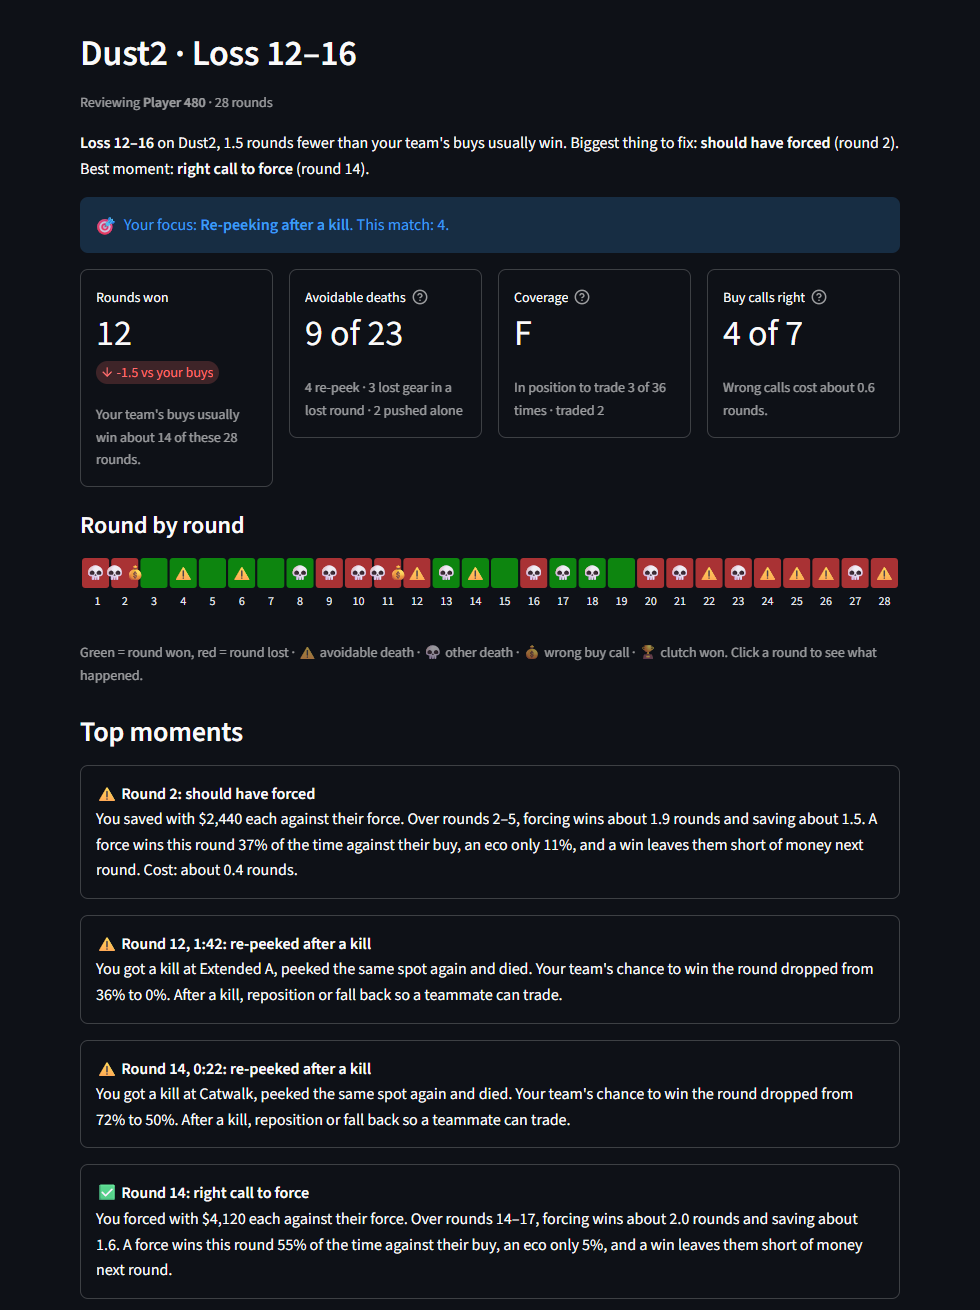
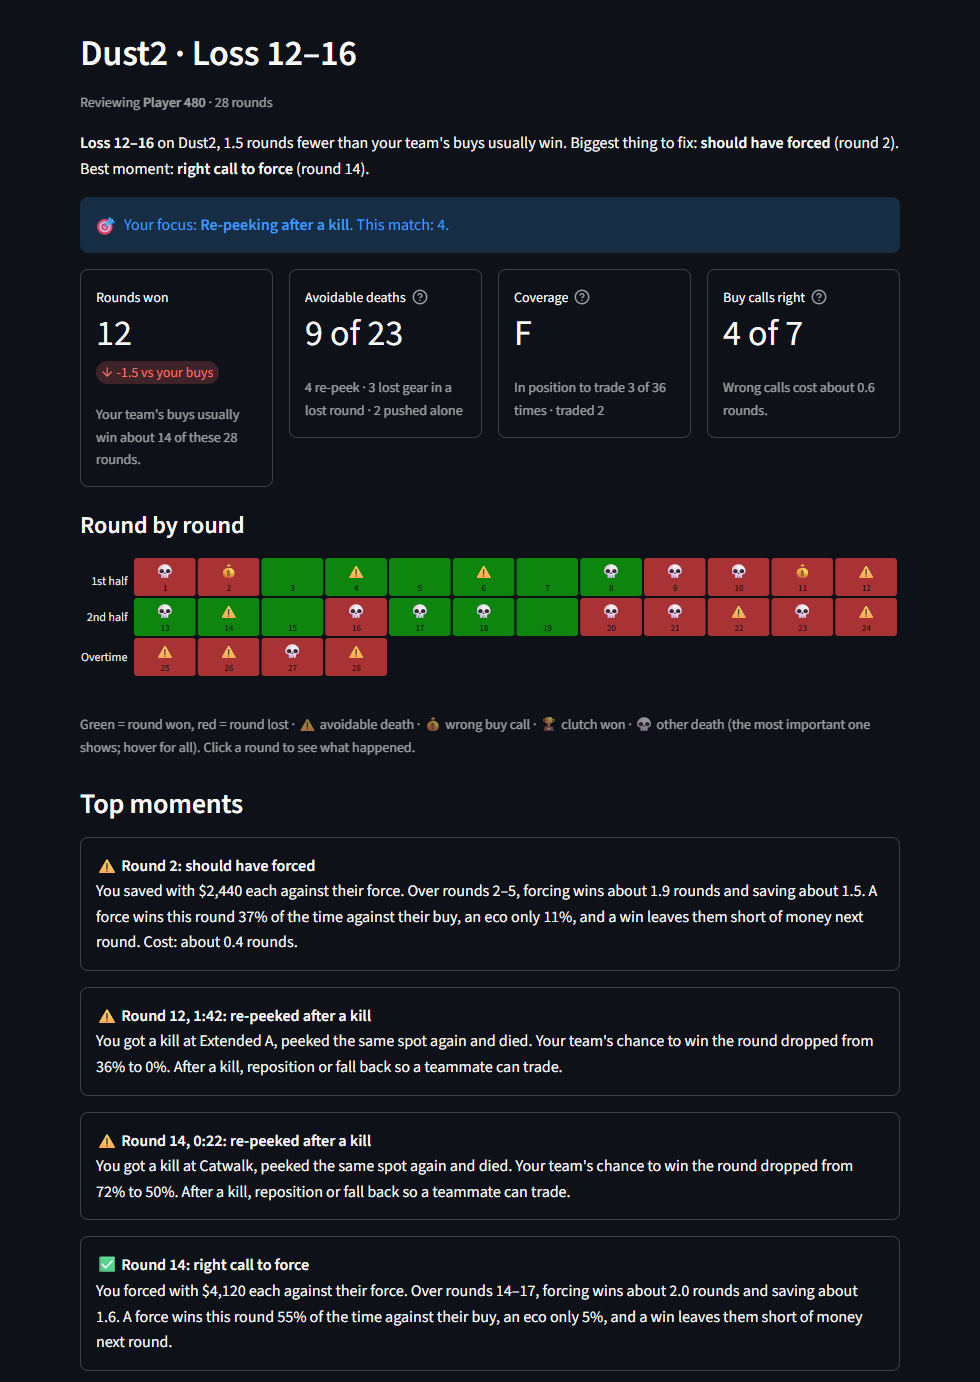
Make the report work on phones
Checked at iPhone width: no sideways scrolling and cards stack. The
round timeline overflowed with 28 rounds, so it now has one row per half
(12 tiles each, overtime below) with the round number in each tile and
one icon per tile (avoidable death > wrong buy > clutch won > death);
the tooltip lists everything. README and screenshots updated.

Changed region(s): [[0.0612, 0.0305, 0.9184, 0.9771]]

diff --git a/app.py b/app.py
@@ -256,6 +256,9 @@ def render_report(report: Report, past: pd.DataFrame | None = None, current: dic
     )
 
 
+TIMELINE_PRIORITY = ["⚠", "💰", "🏆", "💀"]
+
+
 def timeline_data(report: Report) -> pd.DataFrame:
     """One row per round: result plus icons for what happened to you in it."""
     deaths = report.deaths
@@ -279,32 +282,42 @@ def timeline_data(report: Report) -> pd.DataFrame:
         if r.round in clutches_won:
             icons.append("🏆")
             notes.append("Won a clutch")
-        rows.append({"round": int(r.round), "result": "Won" if r.won else "Lost", "icons": "".join(icons),
+        # One icon per tile so they fit on a phone; the tooltip lists everything.
+        icon = min(icons, key=TIMELINE_PRIORITY.index) if icons else ""
+        rows.append({"round": int(r.round), "result": "Won" if r.won else "Lost", "icons": icon,
                      "notes": "; ".join(notes) or "Nothing to flag"})
     return pd.DataFrame(rows)
 
 
 def timeline_chart(data: pd.DataFrame, mode: str) -> alt.Chart:
+    """One row of tiles per half (12 rounds, then overtime) so tiles stay wide enough on a phone."""
     palette = COLORS[mode]
+    data = data.assign(
+        half=[("1st half" if r <= 12 else "2nd half" if r <= 24 else "Overtime") for r in data["round"]],
+        slot=[(r - 1) % 12 + 1 if r <= 24 else r - 24 for r in data["round"]],
+    )
+    halves = [h for h in ("1st half", "2nd half", "Overtime") if h in set(data["half"])]
     pick = alt.selection_point(name="pick", fields=["round"], on="click", empty=False)
-    x = alt.X("round:O", title=None, axis=alt.Axis(labelAngle=0, ticks=False, domain=False, labelPadding=6))
+    x = alt.X("slot:O", title=None, axis=None, scale=alt.Scale(domain=list(range(1, 13))))
+    y = alt.Y("half:N", title=None, sort=halves, axis=alt.Axis(ticks=False, domain=False, labelPadding=6))
     tiles = alt.Chart(data).mark_rect(stroke=palette["surface"], strokeWidth=2, cornerRadius=4, cursor="pointer").encode(
-        x=x,
+        x=x, y=y,
         color=alt.Color("result:N", title=None, scale=alt.Scale(domain=["Won", "Lost"], range=[palette["good"], palette["critical"]]),
                         legend=None),  # explained in the caption
         opacity=alt.condition(pick, alt.value(1.0), alt.value(0.8)),
         tooltip=[alt.Tooltip("round:O", title="Round"), alt.Tooltip("result:N", title="Result"), alt.Tooltip("notes:N", title="What happened")],
     ).add_params(pick)
-    icons = alt.Chart(data).mark_text(fontSize=15, baseline="middle").encode(x=x, text="icons:N")
-    return alt.layer(tiles, icons).properties(height=70)
+    icons = alt.Chart(data).mark_text(fontSize=14, baseline="middle", dy=-5).encode(x=x, y=y, text="icons:N")
+    numbers = alt.Chart(data).mark_text(fontSize=9, baseline="middle", dy=11, color=palette["on_fill"]).encode(x=x, y=y, text="round:O")
+    return alt.layer(tiles, icons, numbers).properties(height=alt.Step(40))
 
 
 def render_timeline(report: Report, mode: str) -> None:
     data = timeline_data(report)
     st.markdown("#### Round by round")
     event = st.altair_chart(timeline_chart(data, mode), width="stretch", on_select="rerun", key="timeline")
-    st.caption("Green = round won, red = round lost · ⚠ avoidable death · 💀 other death · 💰 wrong buy call · 🏆 clutch won. "
-               "Click a round to see what happened.")
+    st.caption("Green = round won, red = round lost · ⚠ avoidable death · 💰 wrong buy call · 🏆 clutch won · 💀 other death "
+               "(the most important one shows; hover for all). Click a round to see what happened.")
     picked = (event.selection.get("pick") or [{}])[0].get("round") if event and event.selection else None
     if picked is not None:
         render_round(report, int(picked))

diff --git a/README.md b/README.md
@@ -55,7 +55,7 @@ Real output from real matches. Player names are replaced with stand-ins.
   - **Trend charts:** avoidable deaths per match, coverage across matches, and opening duels by callout per map.
 - **Add all replays.** One click loads every demo in your CS2 replays folder.
 - **First-run guide.** Four steps from downloading a match to your first report; it tucks itself away once you've saved yourself with **This is me**.
-- Privacy and Terms pages; light and dark mode.
+- Works on phones (checked at iPhone width: no sideways scrolling, cards stack). Privacy and Terms pages; light and dark mode.
 
 ## How it works
 1. **Parse.** demoparser2 reads each round's money and equipment, every death, where every player stood and aimed at each death, every grenade and flash, and the bomb plant.
